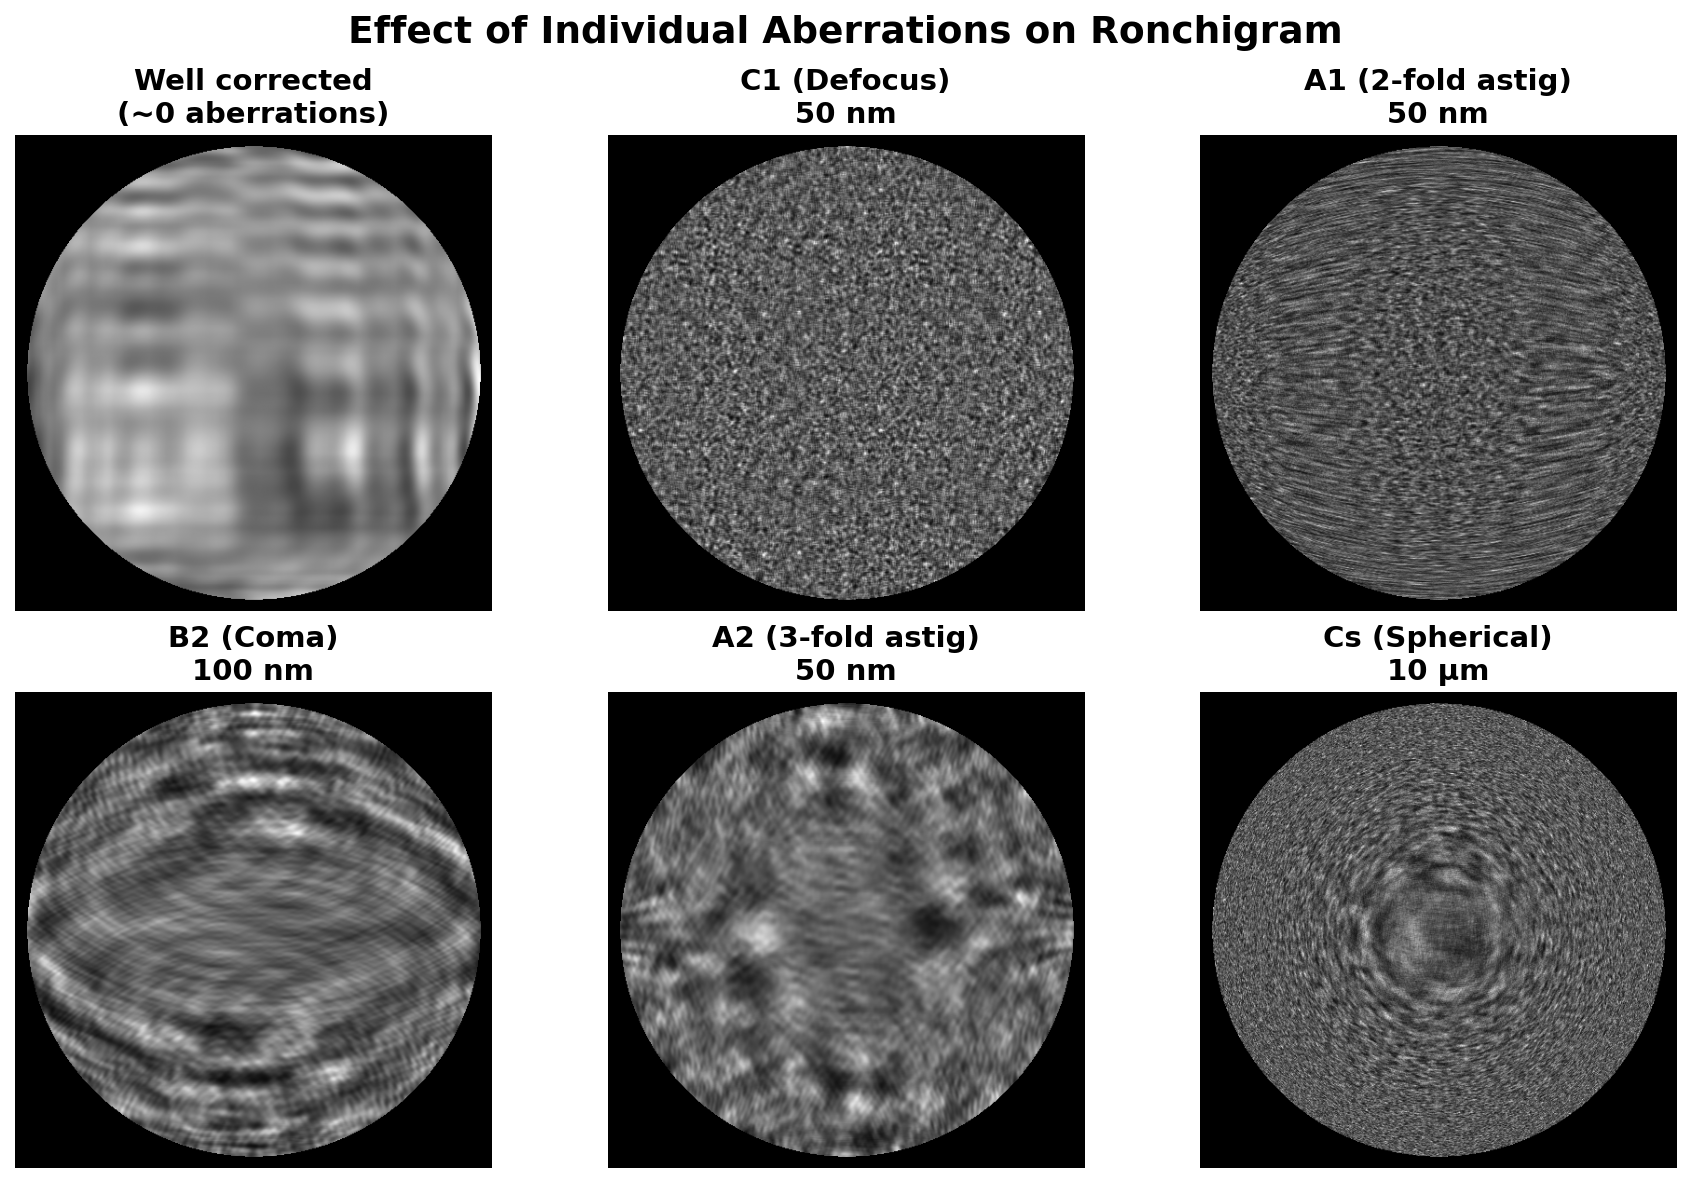
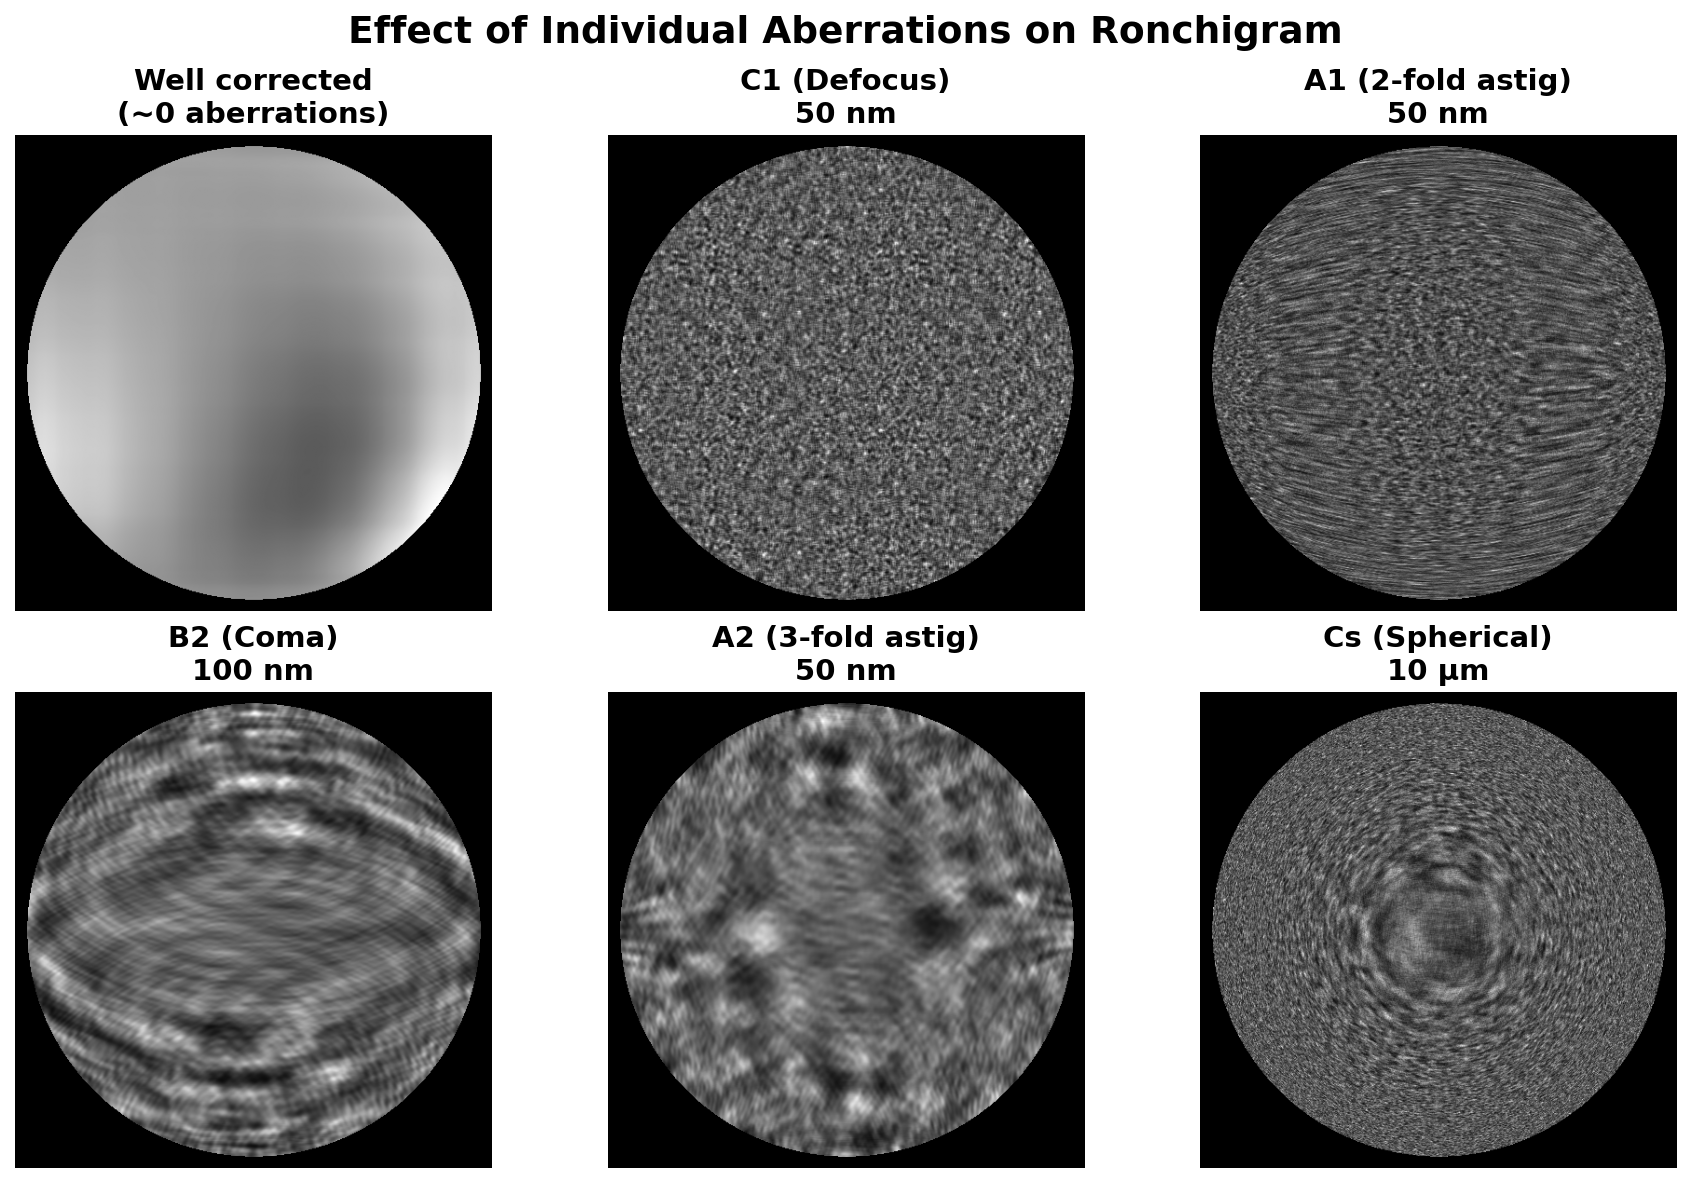
improved near-zero aberration values diagram

Changed region(s): [[0.0, 0.1217, 0.3075, 0.5173]]

diff --git a/src/STEM_SNSF/plots/aberration_effects.py b/src/STEM_SNSF/plots/aberration_effects.py
@@ -30,7 +30,7 @@ DEVICE = torch.device("mps" if torch.backends.mps.is_available() else "cpu")
 # Note: "Well corrected" uses small defocus to show sample structure realistically
 # Note: A1 needs small defocus to show elliptical/2-fold pattern
 ABERRATION_CONFIGS = [
-    {"name": "Well corrected\n(~0 aberrations)", "mags": {0: 1e-9}},
+    {"name": "Well corrected\n(~0 aberrations)", "mags": {0: 0.2e-9}},
     {"name": "C1 (Defocus)\n50 nm", "mags": {0: 50e-9}},
     {"name": "A1 (2-fold astig)\n50 nm", "mags": {0: 5e-9, 1: 50e-9, 4: 5e-6}},
     {"name": "B2 (Coma)\n100 nm", "mags": {2: 100e-9}},

diff --git a/src/STEM_SNSF/index.md b/src/STEM_SNSF/index.md
@@ -1,10 +1,10 @@
-# Spectra 300 (SNSF)
+# Titan Spectra 300 STEM Alignment Guide
 
 <img src="../STEM/img/APP-tmp-7056.jpg" alt="STEM overview">
 
 This guide covers STEM alignment on the Spectra 300 at Stanford SNSF (Stanford Nano Shared Facilities). Based on Andrew Barnum's hands-on training with step-by-step screenshots.
 
-**Prerequisite:** A standard training sample (gold on carbon) is already loaded and the holder is inserted into the Spectra 300. For sample loading procedures, see [Start session](sample-loading.md#start-session).
+**Prerequisite:** A standard training sample (gold on carbon) is already loaded and the holder is inserted into the Spectra 300. For sample loading procedures, see [Start session](../sample-loading/index.md#start-session).
 
 **Acronyms:**
 
@@ -26,8 +26,8 @@ This guide covers three main phases:
 
 | Phase | Procedures | Time |
 | ----- | ---------- | ---- |
-| [Part 1: Setup & Alignment](#part-1-setup--alignment) | Vacuum check, eucentric height, STEM mode configuration, direct alignments, monochromator tune | 5-10 min |
-| [Part 2: Probe Correction](#part-2-probe-correction) | HAADF setup, C1A1 correction, Tableau measurement | 10-15 min |
+| [Part 1: Setup & Alignment](#part-1-setup--alignment) | Vacuum check, eucentric height, STEM mode configuration, direct alignments, monochromator tune, HAADF setup | 5-10 min |
+| [Part 2: Probe Correction](#part-2-probe-correction) | Correct aberrations (C1A1, Tableau) to achieve sub-angstrom probe | 10-15 min |
 | [Part 3: Imaging](#part-3-imaging) | Image acquisition, Sherpa fine-tuning (optional) | varies |
 
 <br>
@@ -616,15 +616,11 @@ Sherpa provides rapid aberration correction that is faster than full Tableau mea
 
   1. Sherpa displays the initial image alongside the optimized image for comparison. The corrected image shows improved sharpness and resolution.
 
-  2. Check the improvement factor reported by the software. This value indicates how much the image quality improved.
-
-  3. If results are not satisfactory, re-run the corrections or return to the full Tableau measurement for more comprehensive correction.
-
      <img src="img/p3_s2_sherpa_08.jpg" alt="Sherpa B2/A2 final result" width="800">
 
 ### 3.3 End session
 
-Follow the steps in [End session](sample-loading.md#end-session).
+Follow the steps in [End session](../sample-loading/index.md#end-session).
 
 ## Troubleshooting
 
